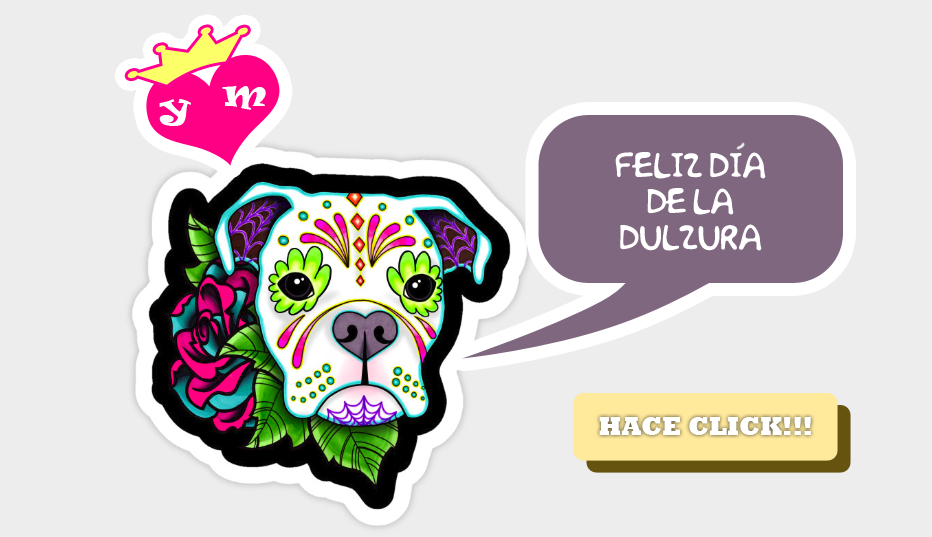
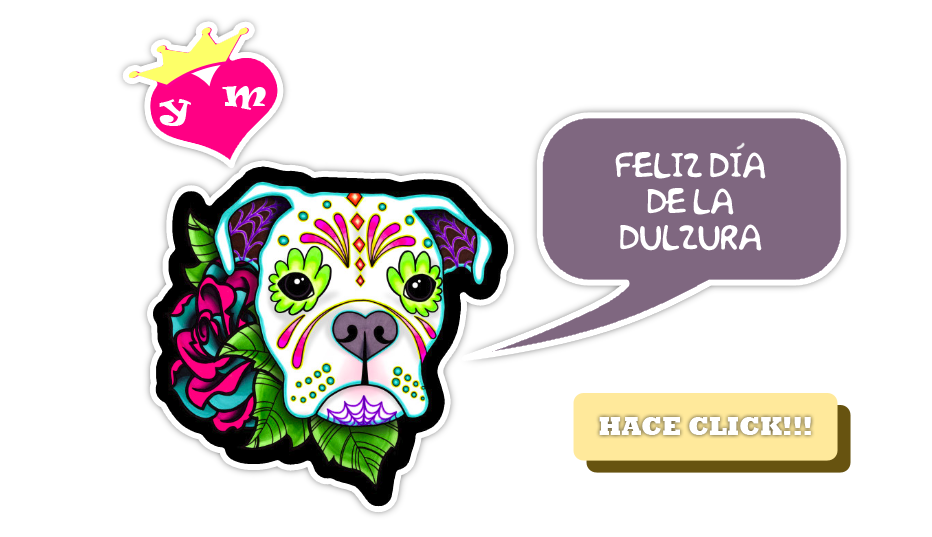
asdsadkppp

Changed region(s): [[0.1245, 0.0298, 0.9024, 0.9832], [0.7157, 0.2682, 0.9335, 0.5661]]

diff --git a/asset/css/style.css b/asset/css/style.css
@@ -4,5 +4,3 @@ padding: 0px;
 color: #FFFFFF;
 background-color: #393939;
 }
-
-body{background-color: #ededee;}
